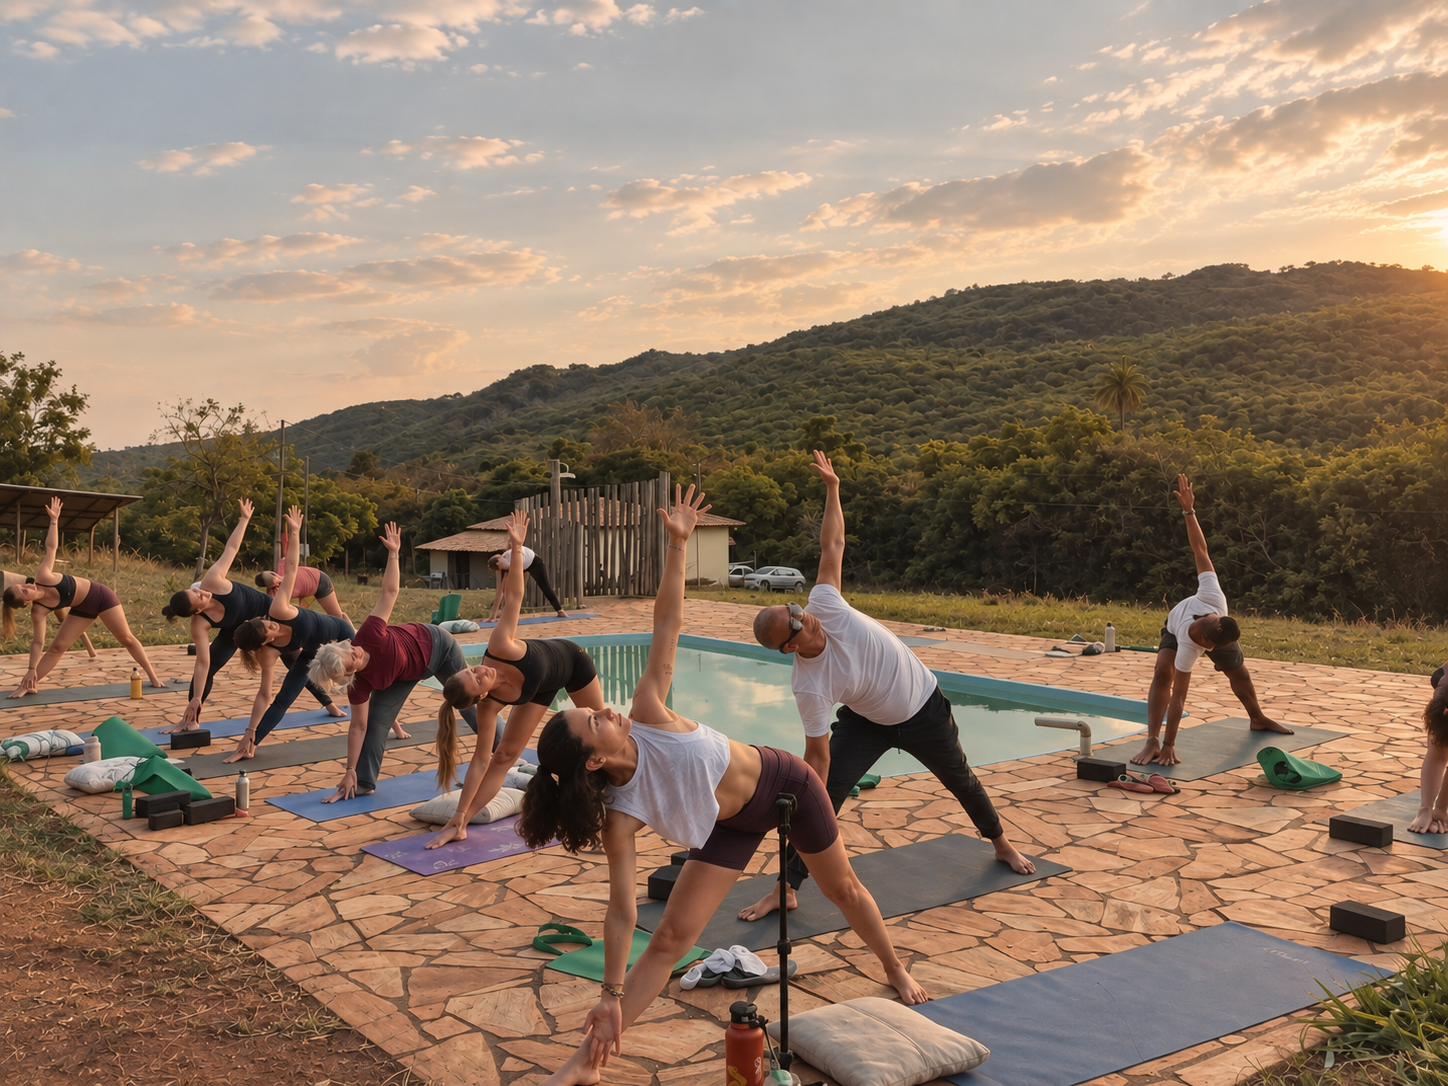
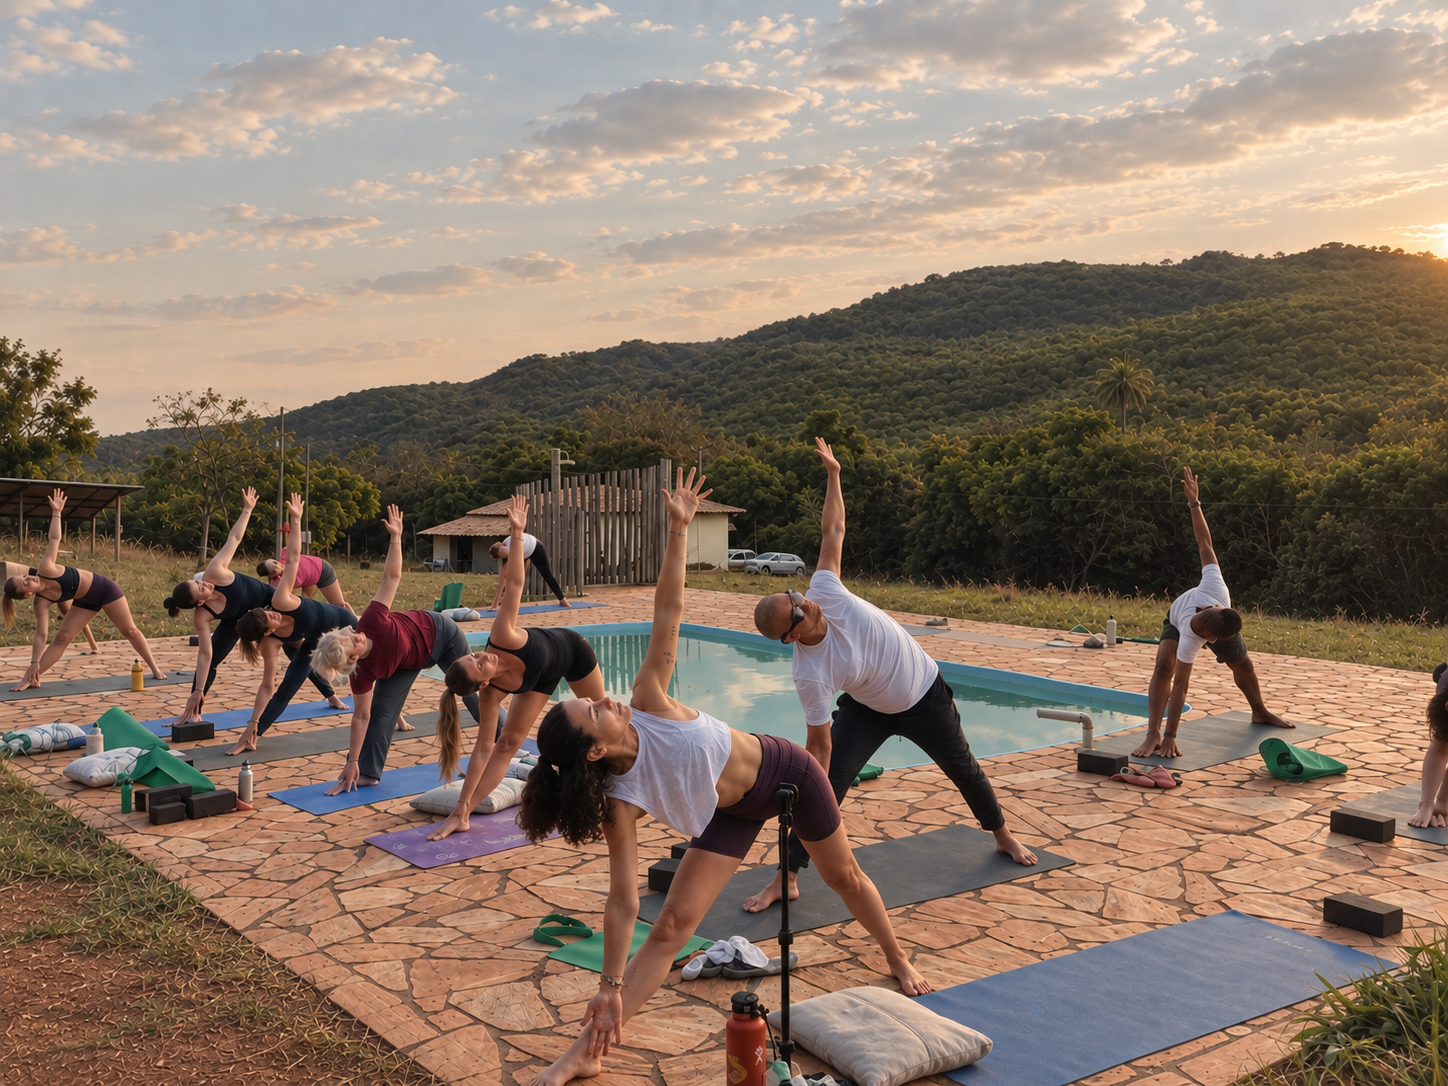
Match the hero background to Como Posso Ajudar so it alternates with the next section.

diff --git a/src/components/Hero.tsx b/src/components/Hero.tsx
@@ -13,7 +13,7 @@ const Hero = () => {
         justify-start
         px-4 sm:px-6
         pt-16 pb-16
-        bg-[var(--color-muted-soft)]
+        bg-[var(--color-bg)]
       "
     >
       {/* Brand */}
